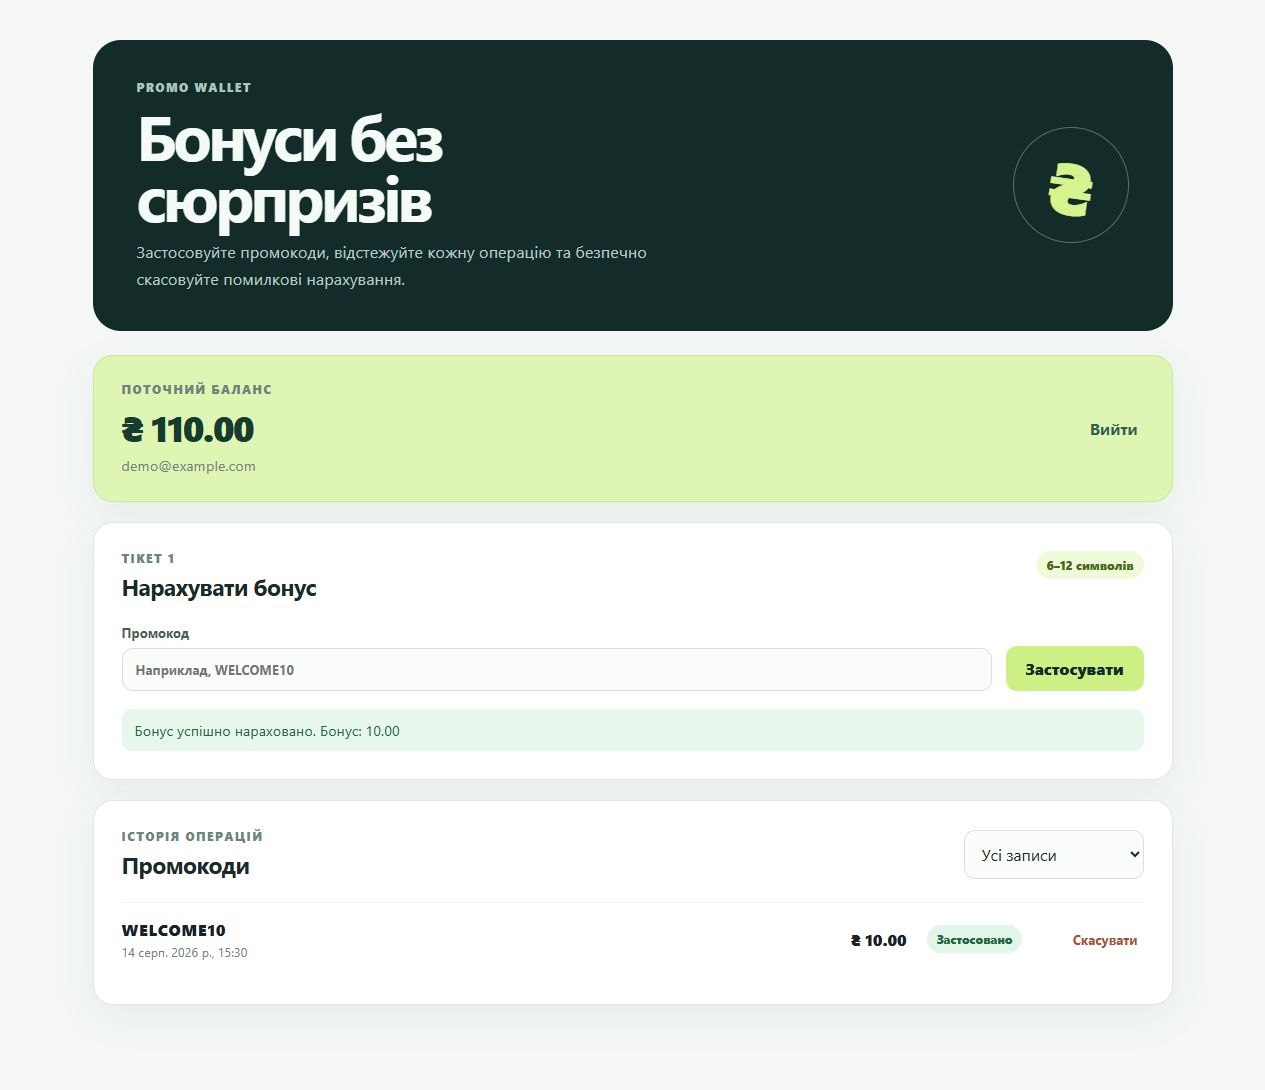
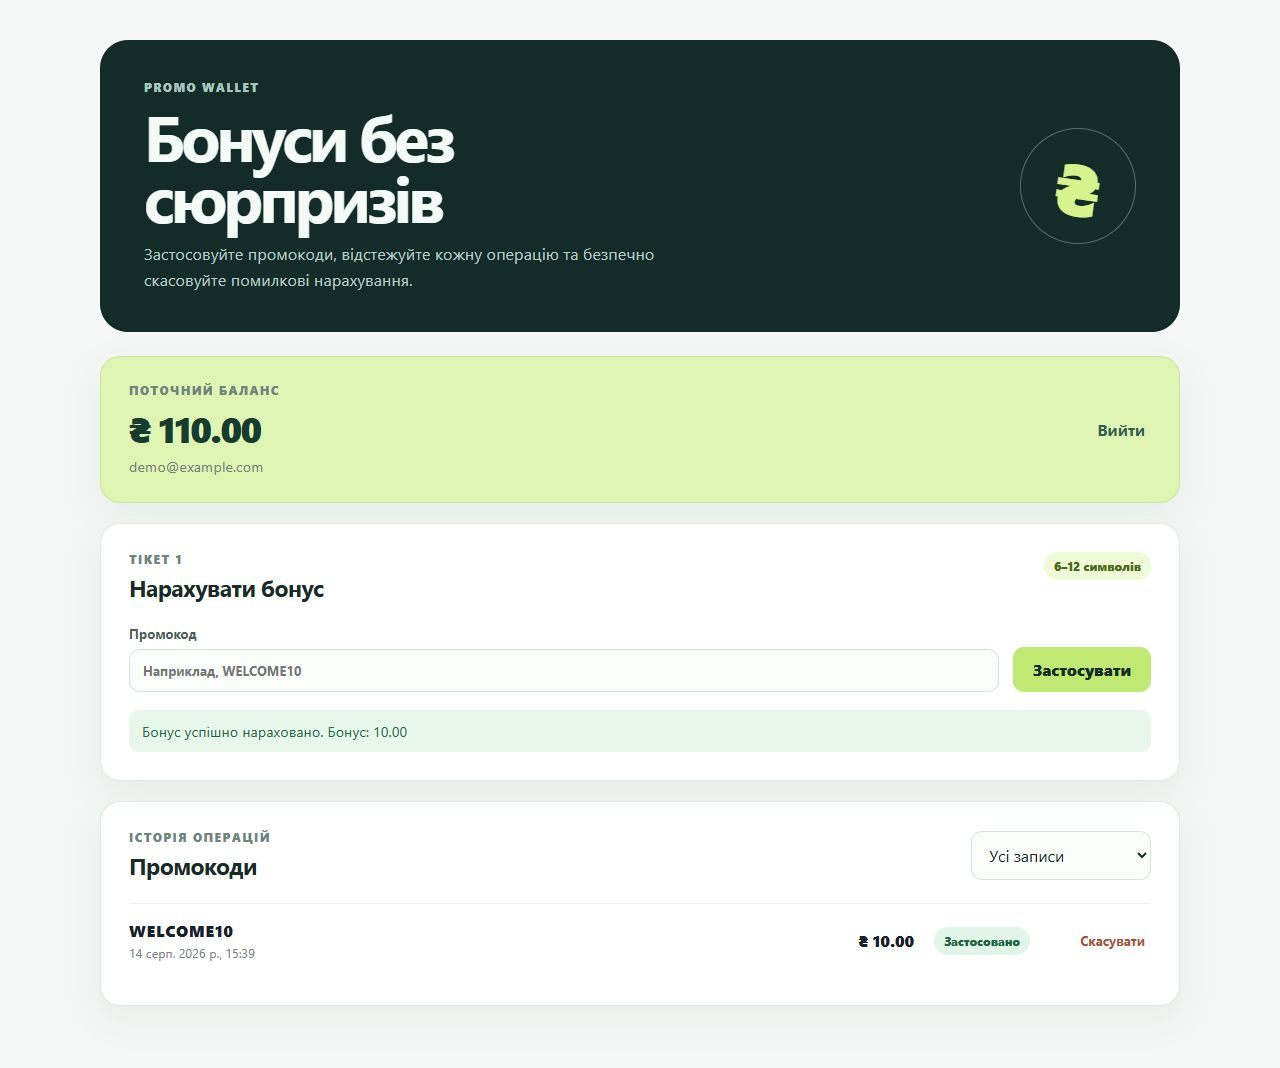
Refresh the complete demo walkthrough

diff --git a/docs/DEMO_SCRIPT.md b/docs/DEMO_SCRIPT.md
@@ -1,5 +1,16 @@
 # Сценарій демо (2–5 хв)
 
+Готова послідовність кадрів лежить у [`docs/screenshots/`](screenshots/):
+
+1. `01-project-start.png` — відкритий застосунок після запуску, екран входу.
+2. `02-authenticated.png` — авторизований гравець, баланс ₴100.00 і порожня історія.
+3. `03-claim-success.png` — `WELCOME10` успішно нарахований, баланс ₴110.00.
+4. `04-duplicate-rejected.png` — повторне використання відхилене, причина видима у формі та історії.
+5. `05-revoke-confirmation.png` — видиме підтвердження скасування з сумою, кодом і попередженням про незворотність.
+6. `06-revoked-final.png` — баланс повернувся до ₴100.00, claim має статус `Скасовано`.
+
+## Як повторити наживо
+
 1. Запустити `php artisan serve` і `npm run dev`, відкрити `http://localhost:8000`.
 2. Показати prefilled demo login і виконати вхід. Звернути увагу, що баланс завантажився з `/api/me`, а токен збережено в браузері.
 3. Ввести `WELCOME10`, натиснути «Застосувати»: показати success message, бонус ₴10.00 і збільшений баланс.
@@ -9,4 +20,4 @@
 7. За бажанням натиснути revoke ще раз через DevTools/API або повторно відкрити запит: показати 409 без повторного списання.
 8. Показати фільтр `Застосовані`/`Відхилені` та, якщо є достатньо записів, пагінацію.
 
-Для послідовності скріншотів достатньо кадрів після кроків 2, 3, 4, 5 і 6.
+Готова послідовність вже містить запуск, авторизацію, обидві фічі та обидва результати помилок/статусів.
